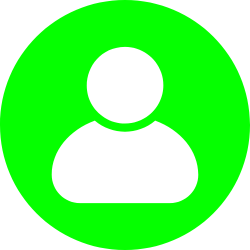
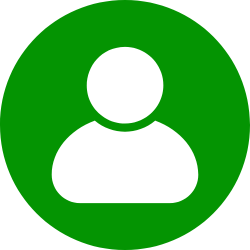
nova cor para o perfil privado

diff --git a/Site-SIEEL-main/Impact/pages/cronograma.html b/Site-SIEEL-main/Impact/pages/cronograma.html
@@ -602,7 +602,7 @@
                 <div class="palestrante">
                   <span class="palestra-badge">MINICURSO C1</span>
                   <span class="palestra-badge-orange">Energisa</span>
-                  <img src="../../fotos_sieel/ministrantes/Não achei.jpeg" alt="PALESTRANTE" class="rounded-circle" width="100">
+                  <img src="../../fotos_sieel/ministrantes/perfil_privado.png" alt="PALESTRANTE" class="rounded-circle" width="100">
                   <span>Wesley Weiler</span>
                 </div>
                 <!--Segunda coluna - DESCRIÇÃO DO EVENTO -->
